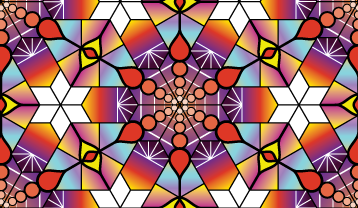
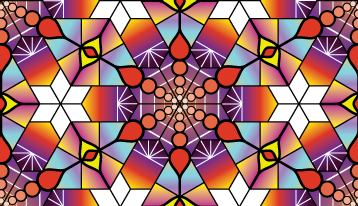
Updated background images, formatting

diff --git a/style2.css b/style2.css
@@ -61,8 +61,17 @@ body {
 }
 
 #tiling_second {
-	height: 200px;
-	background: url(images/bg_tile_recl_fc.png) repeat;
+	height: 600px;
+	background: url(images/bg_tile_brinstar_color_lg.png) no-repeat;
+	background-position: center top;
+	background-color: #000000;
+}
+
+.content h2{
+	font-size: 60px;
+}
+.content h3 {
+	font-size: 30px;
 }
 
 #developer {
@@ -74,7 +83,8 @@ body {
 }
 
 #tiling_third {
-	height: 200px;
+	height: 613px;
 	background: url(images/bg_tile_recl_fc.png) repeat;
 }
+
 

diff --git a/index2.html b/index2.html
@@ -31,7 +31,7 @@
 	<div id="tiling_top" class="background"></div>
 
 	<!--name splash screen -->
-	<div id="nameplate">
+	<div id="nameplate" class="content">
 		<div class="container">
 			<h1>sean boose.</h1>
 			<h2>developer<br />
@@ -44,9 +44,9 @@
 	<div id="tiling_second" class="background"></div>
 
 	<!-- developer content -->
-	<div id="developer">
+	<div id="developer" class="content">
 		<div class="container">
-			<h2>developer</h2>
+			<h2>developer.</h2>
 		</div>
 	</div>
 
